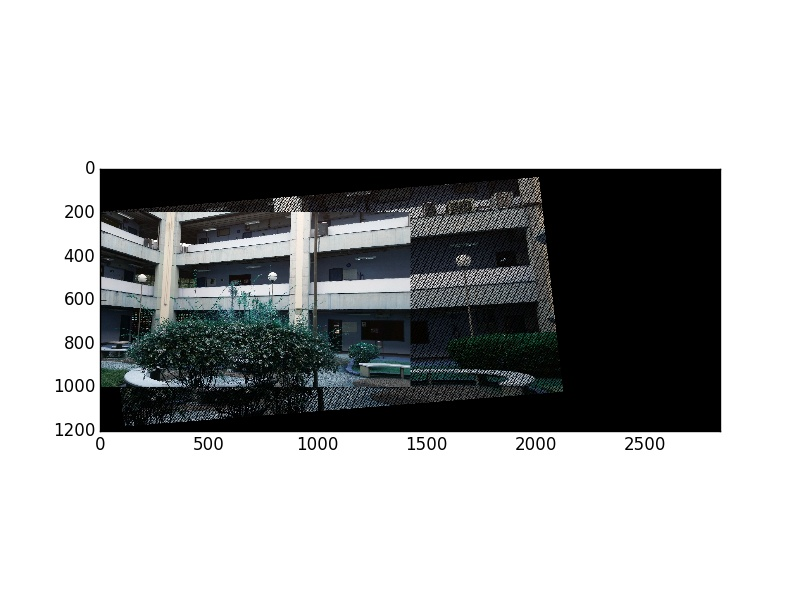
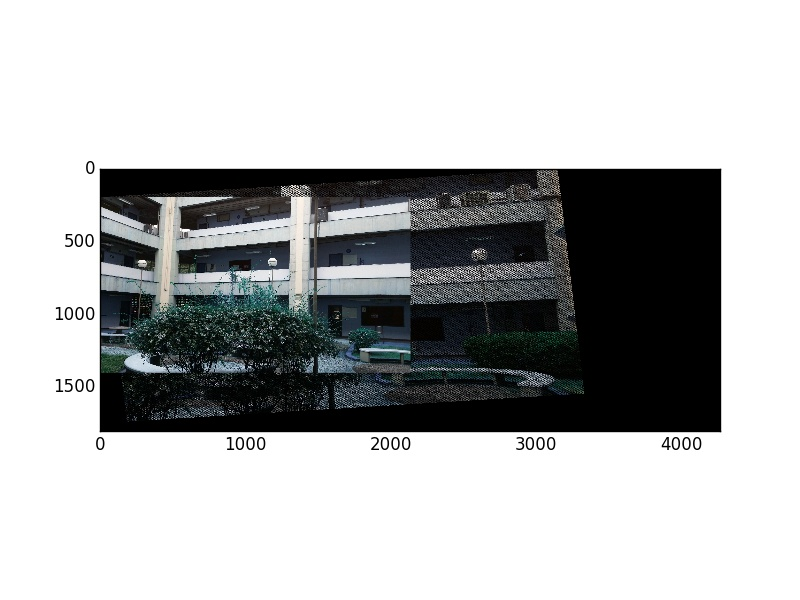
Starting warp perspective

diff --git a/tp2.py b/tp2.py
@@ -241,7 +241,7 @@ class ImageBlock:
         dst_pts = np.float32([target_kp[m.trainIdx].pt for m in good_matches]).reshape(-1, 1, 2)
 
         print "homography"
-        matrix_h, mask = cv2.findHomography(src_pts, dst_pts, cv2.RANSAC, ransacReprojThreshold=5)
+        matrix_h, mask = cv2.findHomography(src_pts, dst_pts, cv2.RANSAC, ransacReprojThreshold=8)
 
         print(self.determinant(matrix_h))
 
@@ -273,9 +273,9 @@ class Mosaic:
         homography = center_block.get_homography(target, matches)
         inv_homography = np.linalg.inv(homography)
         img_h, img_w = center_block.get_image().shape[:2]
-        # target_img_wrp = cv2.warpPerspective(target.get_image(), mod_inv_h, (img_w, img_h))
         new_h = img_h * 1.5
         new_w = img_w * 2
+        # target_img_wrp = cv2.warpPerspective(target.get_image(), mod_inv_h, (img_w, img_h))
         target_img_wrp = target.warp(homography, new_h, new_w, 0, 200)
         # center_img_wrp = cv2.warpPerspective(center_block.get_image(), move_h, (img_w, img_h))
         center_img_wrp = center_block.warp(np.identity(3), new_h, new_w, 0, 200)
